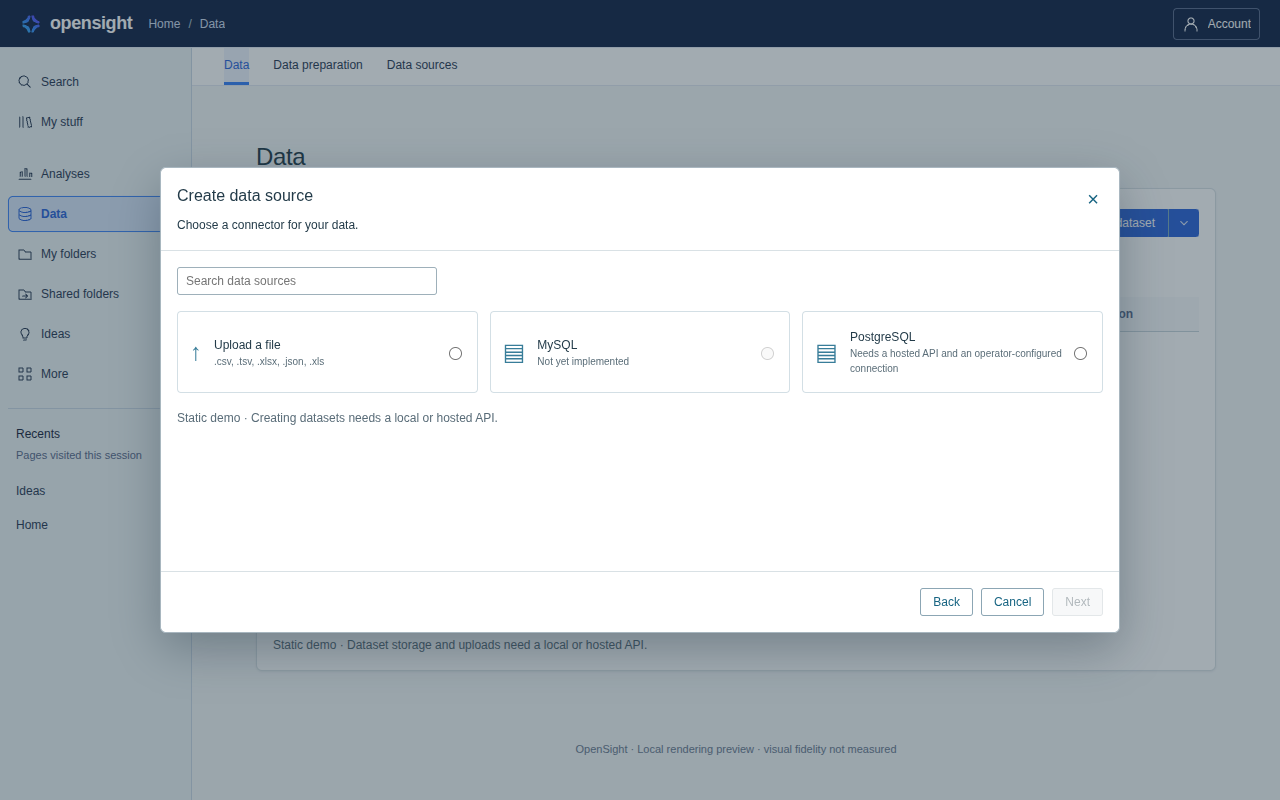
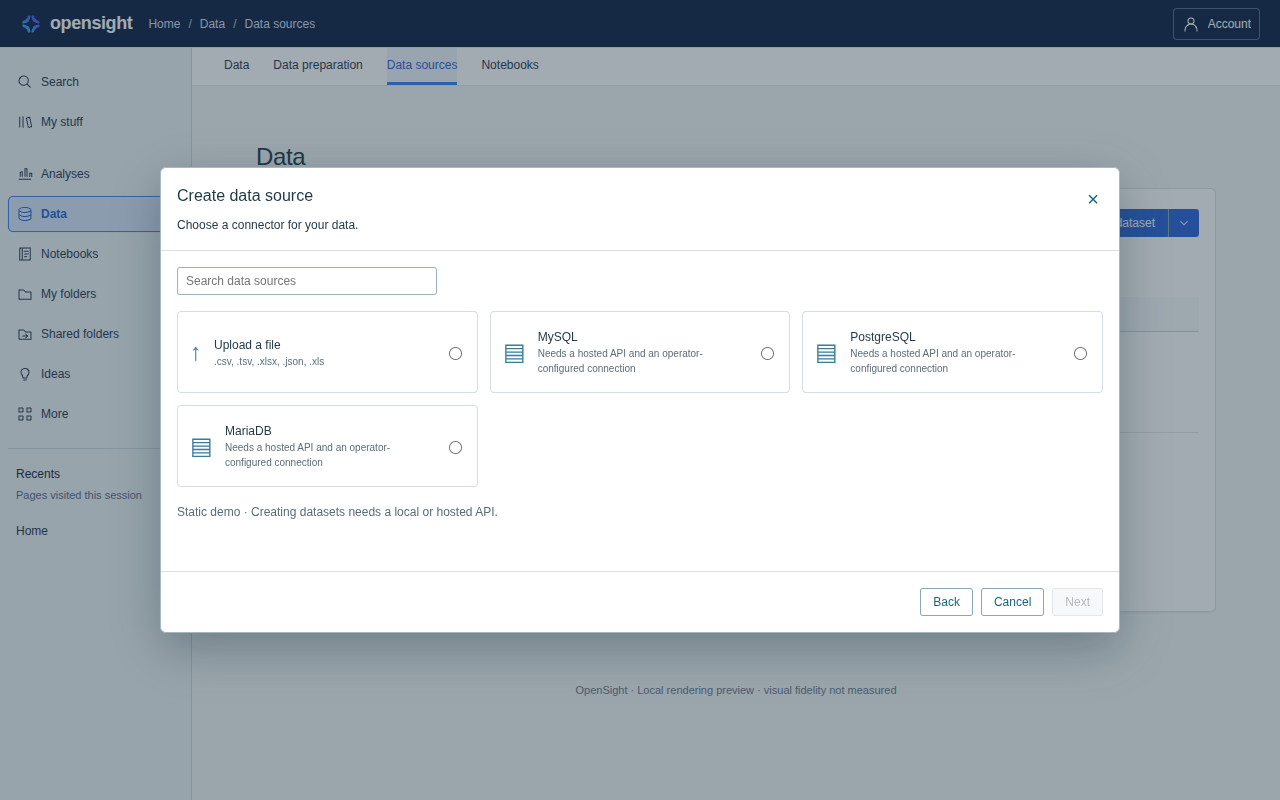
Issue 270 item 6: enable configured database sources throughout the app

diff --git a/packages/web/src/DataSources.tsx b/packages/web/src/DataSources.tsx
@@ -3,6 +3,7 @@ import { connectors, connectorDefinition, connectorState, validateConnectorConfi
 import type { createApiClient } from './api-client.js';
 import type { UploadSummary } from '@opensight/query-engine';
 import { DirectUpload, type DirectUploadClient } from './DirectUpload.js';
+import { queryConnector } from './query-connectors.js';
 import { useToast } from './Toasts.js';
 
 type Client = Pick<ReturnType<typeof createApiClient>, 'uploadFile' | 'validateConnector' | 'listPrepSources'> & Partial<DirectUploadClient & Pick<ReturnType<typeof createApiClient>, 'getTransportCapabilities'>>;
@@ -10,22 +11,22 @@ export function DataSources({ client, local = false, onPrep }: { client?: Client
   const [search, setSearch] = useState('');
   const [selected, setSelected] = useState('file');
   const [showUnavailable, setShowUnavailable] = useState(false);
-  const [discovery, setDiscovery] = useState<{ client: Client; source?: string; error?: string }>();
+  const [discovery, setDiscovery] = useState<{ client: Client; sources?: { id: string; connectorId: string }[]; error?: string }>();
   useEffect(() => {
     setDiscovery(undefined);
     if (!client || local) return;
     let active = true;
     void client.listPrepSources().then(sources => {
       // An API client alone is not proof of a usable hosted connection.
-      const source = sources.find(s => s.connectorId === 'postgresql' && s.available && (!s.ref || typeof s.ref === 'string'));
-      if (active) setDiscovery({ client, source: source?.id });
+      const available = sources.filter(s => queryConnector(s.connectorId) && s.available && (!s.ref || typeof s.ref === 'string'));
+      if (active) setDiscovery({ client, sources: available });
     }).catch(error => {
       if (active) setDiscovery({ client, error: error instanceof Error ? error.message : 'Source discovery failed' });
     });
     return () => { active = false; };
   }, [client, local]);
-  const postgresSource = !local && discovery?.client === client && onPrep ? discovery?.source : undefined;
-  const usable = (id: string) => id === 'file' || (id === 'postgresql' && !!postgresSource);
+  const configuredSource = (id: string) => !local && discovery?.client === client && onPrep ? discovery?.sources?.find(s => s.connectorId === id)?.id : undefined;
+  const usable = (id: string) => id === 'file' || !!configuredSource(id);
   const current = usable(selected) || showUnavailable ? selected : 'file';
   const matches = connectors.filter(c => `${c.name} ${c.category}`.toLowerCase().includes(search.toLowerCase()));
   const available = matches.filter(c => usable(c.id)), unavailable = matches.filter(c => !usable(c.id));
@@ -33,7 +34,7 @@ export function DataSources({ client, local = false, onPrep }: { client?: Client
     <span className={`connector-symbol category-${c.category.toLowerCase()}`} aria-hidden="true">{c.category === 'File' ? '↑' : c.category === 'AWS' ? '☁' : c.category === 'SaaS' ? '◇' : '▤'}</span>
     <span className="connector-name">{c.name}</span><span className="connector-category">{c.id === 'file' ? 'CSV, TSV, JSON and Excel' : c.category}</span>
     {c.id === 'file' && <span className="connector-description">{client ? 'Upload now, prepare your data, then build a chart.' : 'Explore the file setup. Uploads are unavailable in the static demo.'}</span>}
-    <span className="connector-state">{c.id === 'file' && client ? 'Upload available' : c.id === 'postgresql' && postgresSource ? 'Needs setup' : connectorState(c.id, !!client).message}</span>
+    <span className="connector-state">{c.id === 'file' && client ? 'Upload available' : configuredSource(c.id) ? 'Needs setup' : connectorState(c.id, !!client).message}</span>
   </button>)}</div>;
   return <section className="data-sources" aria-labelledby="data-sources-title">
     <div className="data-sources-heading"><div><p className="eyebrow">DATA SOURCES</p><h1 id="data-sources-title">Create a data set</h1><p>{client ? 'Start with a file: upload → prepare → build a chart.' : 'Explore file setup, then run a local or hosted API to upload your data.'}</p></div>{onPrep && <button onClick={() => onPrep()}>Prepare data</button>}</div>
@@ -43,11 +44,11 @@ export function DataSources({ client, local = false, onPrep }: { client?: Client
       <label className="connector-toggle"><input type="checkbox" checked={showUnavailable} onChange={e => { setShowUnavailable(e.target.checked); if (!e.target.checked && !usable(selected)) setSelected('file'); }} />Show unavailable connectors</label>
       {showUnavailable && <section className="connector-unavailable" aria-labelledby="unavailable-connectors-title"><h2 id="unavailable-connectors-title">Not yet available</h2><p>These sources cannot be connected from this gallery. Select one to see what is missing.</p>{!local && discovery?.client === client && discovery?.error && <p role="status">Could not check configured connections: {discovery.error}</p>}{cards(unavailable)}</section>}
       {available.length === 0 && (!showUnavailable || unavailable.length === 0) && <p role="status">No data sources match your search.{!showUnavailable && ' Turn on Show unavailable connectors to search the full catalog.'}</p>}</div>
-      <ConnectorDetails key={`${current}-${!!client}-${local}-${current === 'postgresql' ? postgresSource ?? '' : ''}`} id={current} client={client} local={local} postgresSource={postgresSource} onPrep={onPrep} />
+      <ConnectorDetails key={`${current}-${!!client}-${local}-${configuredSource(current) ?? ''}`} id={current} client={client} local={local} querySource={configuredSource(current)} onPrep={onPrep} />
     </div>
   </section>;
 }
-export function ConnectorDetails({ id, client, local, postgresSource, onPrep, onUploaded }: { id: string; client?: Client; local: boolean; postgresSource?: string; onPrep?: (source?: string) => void; onUploaded?: (source: string) => void }) {
+export function ConnectorDetails({ id, client, local, querySource, onPrep, onUploaded }: { id: string; client?: Client; local: boolean; querySource?: string; onPrep?: (source?: string) => void; onUploaded?: (source: string) => void }) {
   const mounted = useRef(true);
   useEffect(() => { mounted.current = true; return () => { mounted.current = false; }; }, []);
   const connector = connectorDefinition(id), fileSource = id === 'file';
@@ -56,7 +57,7 @@ export function ConnectorDetails({ id, client, local, postgresSource, onPrep, on
   const [config, setConfig] = useState<Record<string, string>>(fileSource ? { format: 'csv' } : {});
   const [file, setFile] = useState<File>();
   const [busy, setBusy] = useState(false);
-  const availability = (): ConnectorState => id === 'postgresql' && postgresSource ? { state: 'not_configured', message: 'Needs setup · Prepare an operator-configured connection.' } : connectorState(id, !!client);
+  const availability = (): ConnectorState => queryConnector(id) && querySource ? { state: 'not_configured', message: 'Needs setup · Prepare an operator-configured connection.' } : connectorState(id, !!client);
   const [status, setStatus] = useState<ConnectorState>(availability);
   const [error, setError] = useState('');
   const [upload, setUpload] = useState<UploadSummary>();
@@ -89,8 +90,8 @@ export function ConnectorDetails({ id, client, local, postgresSource, onPrep, on
     finally { setBusy(false); }
   };
   return <aside className="connector-details" aria-label={`${connector.name} setup`}><p className="eyebrow">SOURCE DETAILS</p><h2>{connector.name}</h2><p className="connector-availability" role="status">{status.message}</p>
-    <p>{fileSource ? 'CSV, TSV, JSON, XLS and XLSX. The API validates every row and reports the staged schema and row count.' : id === 'postgresql' ? local ? 'PostgreSQL requires an operator-provisioned hosted source. Connection setup is unavailable in this local workspace.' : 'A hosted operator must provision the source and its credentials. This gallery cannot create a connection.' : 'Configuration is documented for future connection support. This connector has no product API connection path.'}</p>
-    {id === 'postgresql' && postgresSource && onPrep && <button onClick={() => onPrep(postgresSource)}>Prepare PostgreSQL data</button>}
+    <p>{fileSource ? 'CSV, TSV, JSON, XLS and XLSX. The API validates every row and reports the staged schema and row count.' : queryConnector(id) ? local ? `${connector.name} requires an operator-provisioned hosted source. Connection setup is unavailable in this local workspace.` : 'A hosted operator must provision the source and its credentials. This gallery cannot create a connection.' : 'Configuration is documented for future connection support. This connector has no product API connection path.'}</p>
+    {queryConnector(id) && querySource && onPrep && <button onClick={() => onPrep(querySource)}>Prepare {connector.name} data</button>}
     <form onSubmit={event => { event.preventDefault(); if (!direct) void submit(); }}>
       {fileSource && <label>File<input type="file" accept=".csv,.tsv,.json,.xls,.xlsx" disabled={!enabled || busy} onChange={e => { const next = e.target.files?.[0]; setFile(next); setUpload(undefined); setError(''); if (next) { const format = next.name.split('.').at(-1)?.toLowerCase(); if (format && ['csv', 'tsv', 'json', 'xls', 'xlsx'].includes(format)) setConfig({ format }); } }} /></label>}
       {Object.entries(connector.schema).filter(([key]) => key !== 'delimiter' || ['csv', 'tsv'].includes(config.format ?? '')).filter(([key]) => key !== 'sheet' || ['xls', 'xlsx'].includes(config.format ?? '')).map(([key, field]) => <label key={key}>{field.label}{field.required ? ' *' : ' (optional)'}{field.kind === 'choice' ? <select value={config[key] ?? ''} disabled={!enabled || busy} required={field.required} onChange={e => update(key, e.target.value)}>{!field.required && <option value="">Automatic</option>}{field.values.map(v => <option key={v} value={v}>{v === '\t' ? 'Tab' : v === ',' ? 'Comma' : v === ';' ? 'Semicolon' : v === '|' ? 'Pipe' : v.toUpperCase()}</option>)}</select> : <input value={config[key] ?? ''} disabled={!enabled || busy} required={field.required} maxLength={256} placeholder={field.kind === 'environment' ? `OPENSIGHT_${key.replace(/Env$/, '').toUpperCase()}` : 'Worksheet name'} onChange={e => update(key, e.target.value)} />}</label>)}

diff --git a/packages/web/src/CreateDatasetDialog.tsx b/packages/web/src/CreateDatasetDialog.tsx
@@ -4,11 +4,11 @@ import type { createApiClient } from './api-client.js';
 import { useAccess } from './access.js';
 import { DataDialog, DataTable } from './DataSectionUI.js';
 import { ConnectorDetails } from './DataSources.js';
+import { queryConnector } from './query-connectors.js';
 import { rawSources, useDataCatalog } from './data-section.js';
 
 export type DatasetCreationClient = Pick<ReturnType<typeof createApiClient>, 'listPrepSources' | 'listPrepDatasets' | 'uploadFile' | 'validateConnector'>;
-// MySQL is explicitly requested by the brief, but its registry status must stay visible.
-export const creationConnectors = connectors.filter(connector => connector.category !== 'AWS' && (connector.implementation === 'upload' || connector.implementation === 'query' || connector.id === 'mysql'));
+export const creationConnectors = connectors.filter(connector => connector.category !== 'AWS' && (connector.implementation === 'upload' || connector.implementation === 'query'));
 /**
  * Shimmer table placeholder shown while the data-source catalog loads (issue
  * #108 polish). It is sized so the dialog body stays at its 320px min-height
@@ -38,7 +38,7 @@ export function CreateDatasetDialog({ client, start = 'dataset', onClose, onPrep
   const nextStage = (next: typeof stage) => { setStage(next); setSearch(''); setSelectedSource(''); };
   const upload = () => { setConnectorId('file'); nextStage('config'); };
   const title = stage === 'dataset' ? 'Create dataset' : stage === 'source' ? 'Create data source' : `${connector?.name ?? 'Data source'} setup`;
-  const postgresSources = access.mode === 'hosted' ? sources.filter(source => source.connectorId === 'postgresql' && source.available) : [];
+  const querySources = access.mode === 'hosted' ? sources.filter(source => source.connectorId === connector?.id && !!queryConnector(source.connectorId) && source.available) : [];
   return <DataDialog title={title} description={stage === 'dataset' ? 'Choose a data source to create a dataset.' : stage === 'source' ? 'Choose a connector for your data.' : undefined} onClose={onClose}>
     <div className="data-dialog-body">
       {stage === 'dataset' ? <>
@@ -51,9 +51,9 @@ export function CreateDatasetDialog({ client, start = 'dataset', onClose, onPrep
         </label>)}</div>
         {!creationConnectors.some(item => item.name.toLowerCase().includes(search.trim().toLowerCase())) && <p role="status">No connectors match your search.</p>}
       </> : connector && <>
-        {connector.id === 'postgresql' && <><p>PostgreSQL credentials are configured by the operator through environment variables. This form cannot create a database connection.</p>
-          <label>Configured source<select aria-label="Configured PostgreSQL source" value={selectedSource} onChange={event => setSelectedSource(event.target.value)}><option value="">Choose a source</option>{postgresSources.map(item => <option value={item.id} key={item.id}>{item.name ?? item.id}</option>)}</select></label>
-          {catalog.loading ? <p role="status">Loading configured sources…</p> : catalog.error ? <p role="alert">{catalog.error}</p> : !postgresSources.length && <p role="status">No configured PostgreSQL sources. Needs hosted API and an operator-configured connection.</p>}</>}
+        {queryConnector(connector.id) && <><p>Database credentials are configured by the operator through environment variables. This form cannot create a database connection.</p>
+          <label>Configured source<select aria-label={`Configured ${connector.name} source`} value={selectedSource} onChange={event => setSelectedSource(event.target.value)}><option value="">Choose a source</option>{querySources.map(item => <option value={item.id} key={item.id}>{item.name ?? item.id}</option>)}</select></label>
+          {catalog.loading ? <p role="status">Loading configured sources…</p> : catalog.error ? <p role="alert">{catalog.error}</p> : !querySources.length && <p role="status">No configured {connector.name} sources. Needs hosted API and an operator-configured connection.</p>}</>}
         <ConnectorDetails key={connector.id} id={connector.id} client={client} local={access.mode === 'local'} onUploaded={onPrep} />
       </>}
       {!client && <p className="data-note">Static demo · Creating datasets needs a local or hosted API.</p>}
@@ -61,7 +61,7 @@ export function CreateDatasetDialog({ client, start = 'dataset', onClose, onPrep
     <footer>{stage !== 'dataset' && <button onClick={() => nextStage(stage === 'config' ? 'source' : 'dataset')}>Back</button>}<button onClick={onClose}>Cancel</button>
       {stage === 'dataset' && <button className="data-primary" disabled={!source} onClick={() => { if (source) onPrep(typeof source.ref === 'string' ? source.ref : source.id); }}>Select</button>}
       {stage === 'source' && <button className="data-primary" disabled={!connector || connector.implementation === 'unimplemented'} onClick={() => { if (connector && connector.implementation !== 'unimplemented') nextStage('config'); }}>Next</button>}
-      {stage === 'config' && connector?.id === 'postgresql' && <button className="data-primary" disabled={!client || catalog.loading || !!catalog.error || !postgresSources.some(item => item.id === selectedSource)} onClick={() => { const item = postgresSources.find(item => item.id === selectedSource); if (client && !catalog.loading && !catalog.error && item) onPrep(typeof item.ref === 'string' ? item.ref : item.id); }}>Select</button>}
+      {stage === 'config' && connector && queryConnector(connector.id) && <button className="data-primary" disabled={!client || catalog.loading || !!catalog.error || !querySources.some(item => item.id === selectedSource)} onClick={() => { const item = querySources.find(item => item.id === selectedSource); if (client && !catalog.loading && !catalog.error && item) onPrep(typeof item.ref === 'string' ? item.ref : item.id); }}>Select</button>}
     </footer>
   </DataDialog>;
 }

diff --git a/packages/web/src/data-prep.ts b/packages/web/src/data-prep.ts
@@ -72,13 +72,18 @@ export function prepBindings(sources: readonly PrepSourceSummary[]): PrepSource[
 }
 export function prepPlan(pipeline: PrepPipeline, sources: readonly PrepSourceSummary[], through?: string | null, context: PrepSchemaContext = {}) {
   const input = sources.find(s => prepRefKey(prepSourceRef(s)) === prepRefKey(pipeline.input));
-  const dialect = input?.connectorId === 'postgresql' ? 'postgres' : 'duckdb';
+  const sourceDialect = input?.connectorId === 'postgresql' ? 'postgres' : input?.connectorId === 'mysql' || input?.connectorId === 'mariadb' ? 'mysql' : 'duckdb';
+  // Hosted MySQL/MariaDB prep reads admitted rows into DuckDB. The prep compiler
+  // has no native MySQL dialect: validate the same staged schema, keeping the
+  // source dialect separate from the SQL actually used for transformations.
+  const dialect = sourceDialect === 'mysql' ? 'duckdb' : sourceDialect;
+  const bindings = prepBindings(sources).map(s => s.connectorId === 'mysql' || s.connectorId === 'mariadb' ? { ...s, connectorId: 'file' } : s);
   const datasets = context.datasets?.filter(d => d.opensightPrep).map(d => {
     const cached = sources.find(s => typeof s.ref === 'object' && 'dataset' in s.ref && s.ref.dataset === d.dataSetId && s.execution?.mode === 'BLAZE');
     const materialized: PrepSource | undefined = cached ? { id: `cached-${cached.id}`, table: `cached-${cached.id}`, connectorId: 'file', columns: cached.columns, security: cached.available ? 'unrestricted' : 'protected' } : undefined;
     return { id: d.dataSetId, pipeline: d.opensightPrep!, ...(materialized ? { materialized } : {}) };
   });
-  return compilePrep(pipeline, prepBindings(sources), { dialect, through, datasetId: context.datasetId, datasets });
+  return { ...compilePrep(pipeline, bindings, { dialect, through, datasetId: context.datasetId, datasets }), sourceDialect, sourceConnectorId: input?.connectorId ?? 'file' };
 }
 export function prepSchema(pipeline: PrepPipeline, sources: readonly PrepSourceSummary[], through?: string | null, context: PrepSchemaContext = {}): PrepColumn[] {
   return prepPlan(pipeline, sources, through, context).columns;

diff --git a/packages/web/src/CreateAnalysisDialog.tsx b/packages/web/src/CreateAnalysisDialog.tsx
@@ -4,6 +4,7 @@ import { FieldSearchInput } from './FieldSearchInput.js';
 import { createFieldSearchDraft } from './field-search.js';
 import type { QueryClient } from './author-query.js';
 import { EmptyPageState } from './LocalEmptyState.js';
+import { queryConnector } from './query-connectors.js';
 import { prepMessage, type PrepSourceSummary } from './data-prep.js';
 
 interface Props {
@@ -32,8 +33,8 @@ function choices(sources: PrepSourceSummary[], sampleAvailable: boolean, offline
     return [{
       key: `dataset:${source.ref.dataset}`, name: source.name ?? source.id,
       dataset: { id: source.ref.dataset, name: source.name ?? source.id, columns: source.columns },
-      source: source.connectorId === 'file' ? 'file' : source.connectorId === 'postgresql' ? 'database' : 'unknown',
-      sourceName: source.connectorId === 'file' ? 'File' : source.connectorId === 'postgresql' ? 'PostgreSQL' : 'Unavailable',
+      source: source.connectorId === 'file' ? 'file' : queryConnector(source.connectorId) ? 'database' : 'unknown',
+      sourceName: source.connectorId === 'file' ? 'File' : queryConnector(source.connectorId)?.name ?? 'Unavailable',
       mode: source.execution?.mode === 'BLAZE' ? 'BLAZE' : source.execution?.mode === 'DIRECT_QUERY' ? 'Direct query' : undefined,
       available: source.available, error: source.available ? undefined : source.errorCode ?? 'DATASET_UNAVAILABLE',
     }];

diff --git a/packages/web/src/DataPrep.tsx b/packages/web/src/DataPrep.tsx
@@ -141,7 +141,7 @@ export function DataPrep({ client, initialSource, initialDatasetId, onSources, o
   const editorSources = (): PrepSourceSummary[] => {
     try {
       const plan = prepPlan(prepPrefix(pipeline, index < 0 ? pipeline.steps.length : index), sources, undefined, schemaContext);
-      return [...sources, ...plan.stages.map((s, i) => ({ id: s.id, ref: { step: s.id }, name: `${i + 1}. ${prepStepLabel(pipeline.steps[i]!)}`, connectorId: plan.dialect === 'postgres' ? 'postgresql' : 'file', columns: s.columns, available: true }))];
+      return [...sources, ...plan.stages.map((s, i) => ({ id: s.id, ref: { step: s.id }, name: `${i + 1}. ${prepStepLabel(pipeline.steps[i]!)}`, connectorId: plan.sourceDialect === 'mysql' ? plan.sourceConnectorId : plan.dialect === 'postgres' ? 'postgresql' : 'file', columns: s.columns, available: true }))];
     } catch { return sources; }
   };
   const inspectInput = (node: { ref: PrepInput; instance: number; consumers: string[] }) => {

diff --git a/packages/web/src/query-connectors.ts b/packages/web/src/query-connectors.ts
@@ -1,0 +1,3 @@
+import { connectors } from '@opensight/query-engine/browser';
+
+export const queryConnector = (id: string) => connectors.find(c => c.id === id && c.implementation === 'query');
